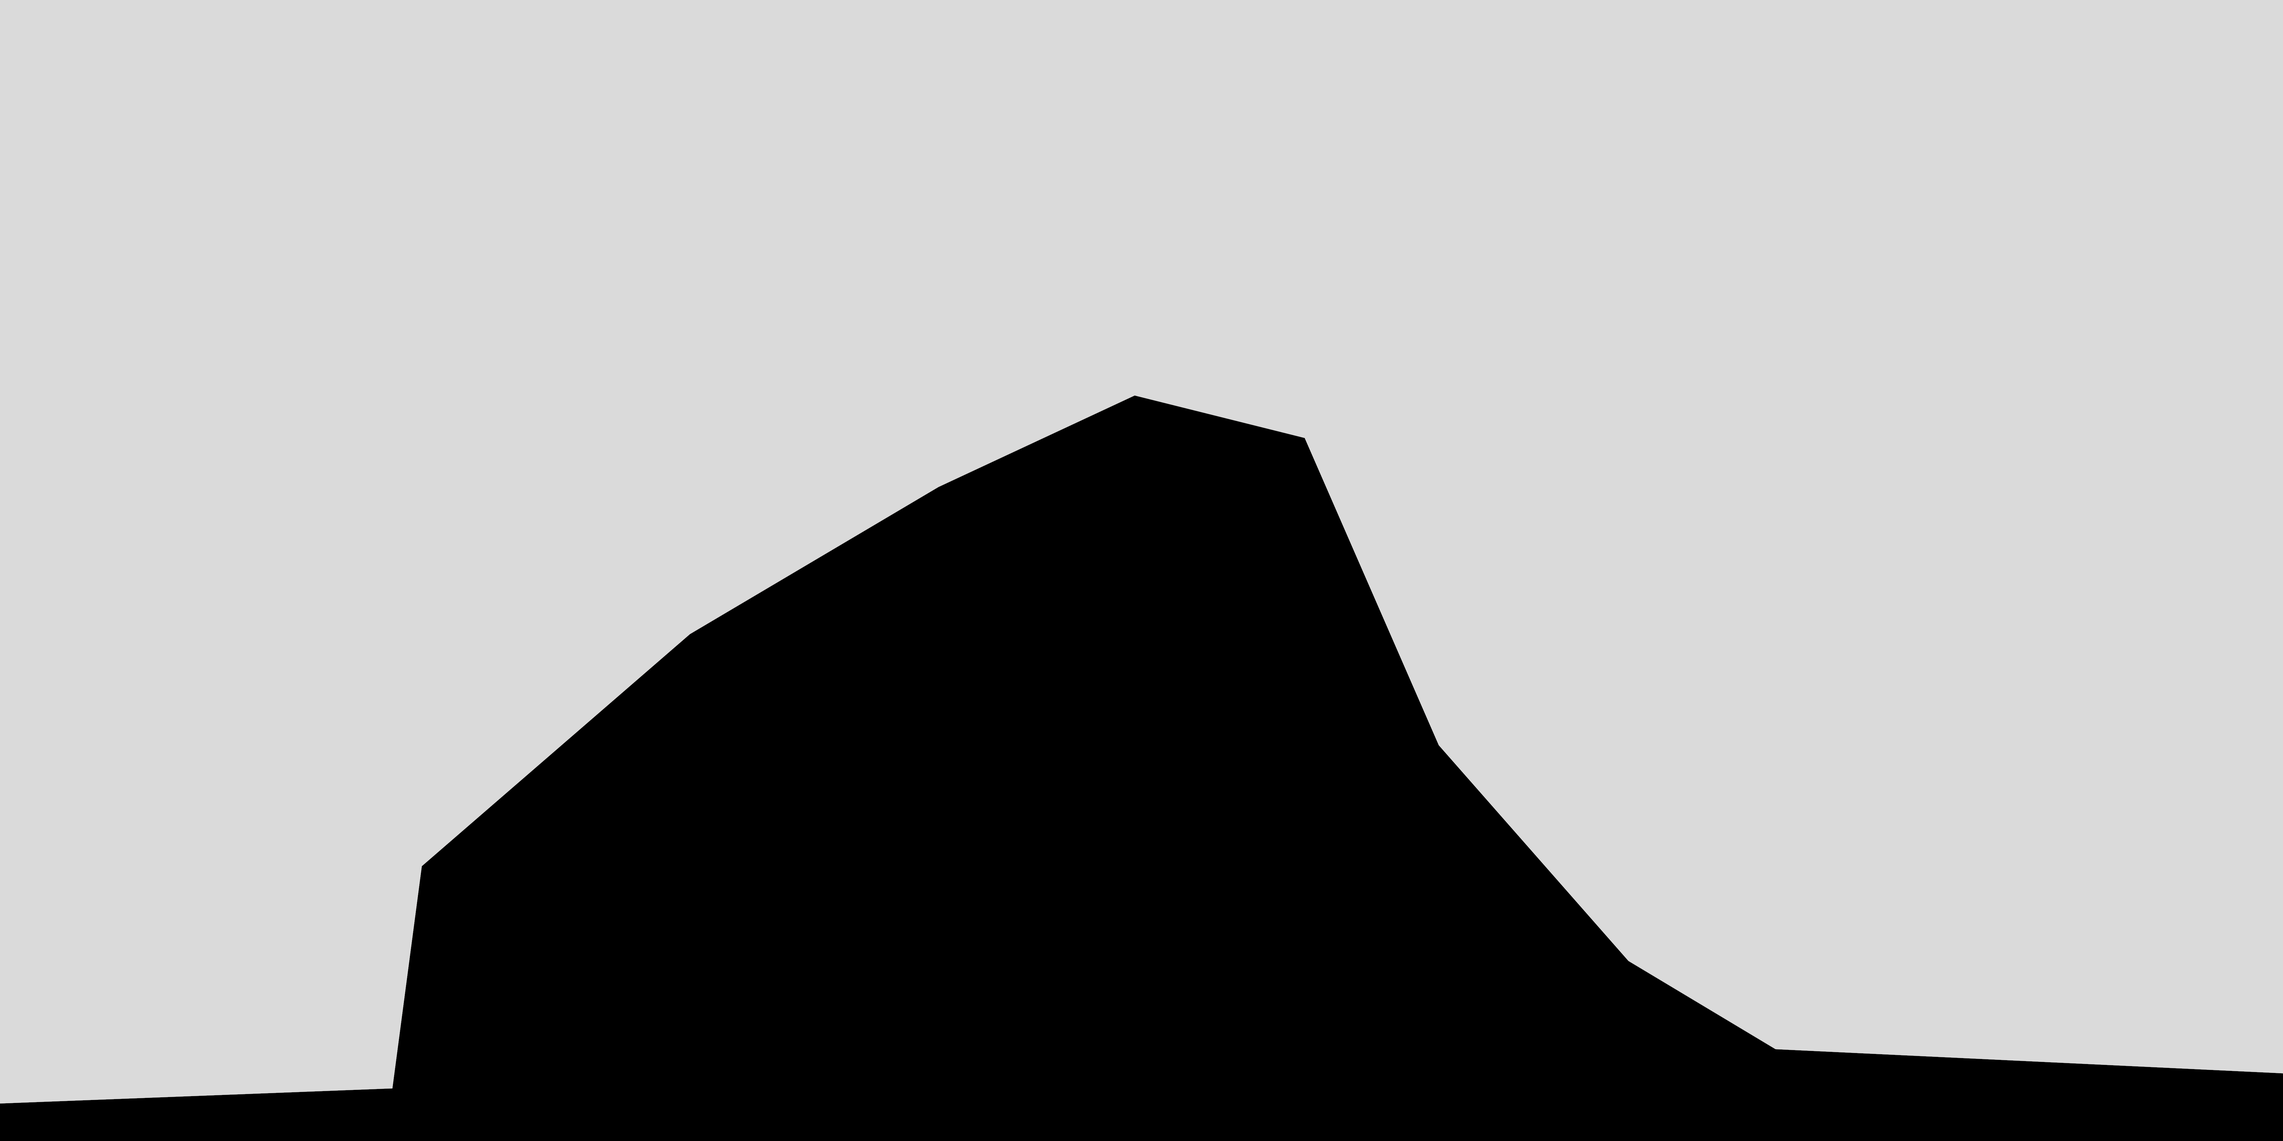
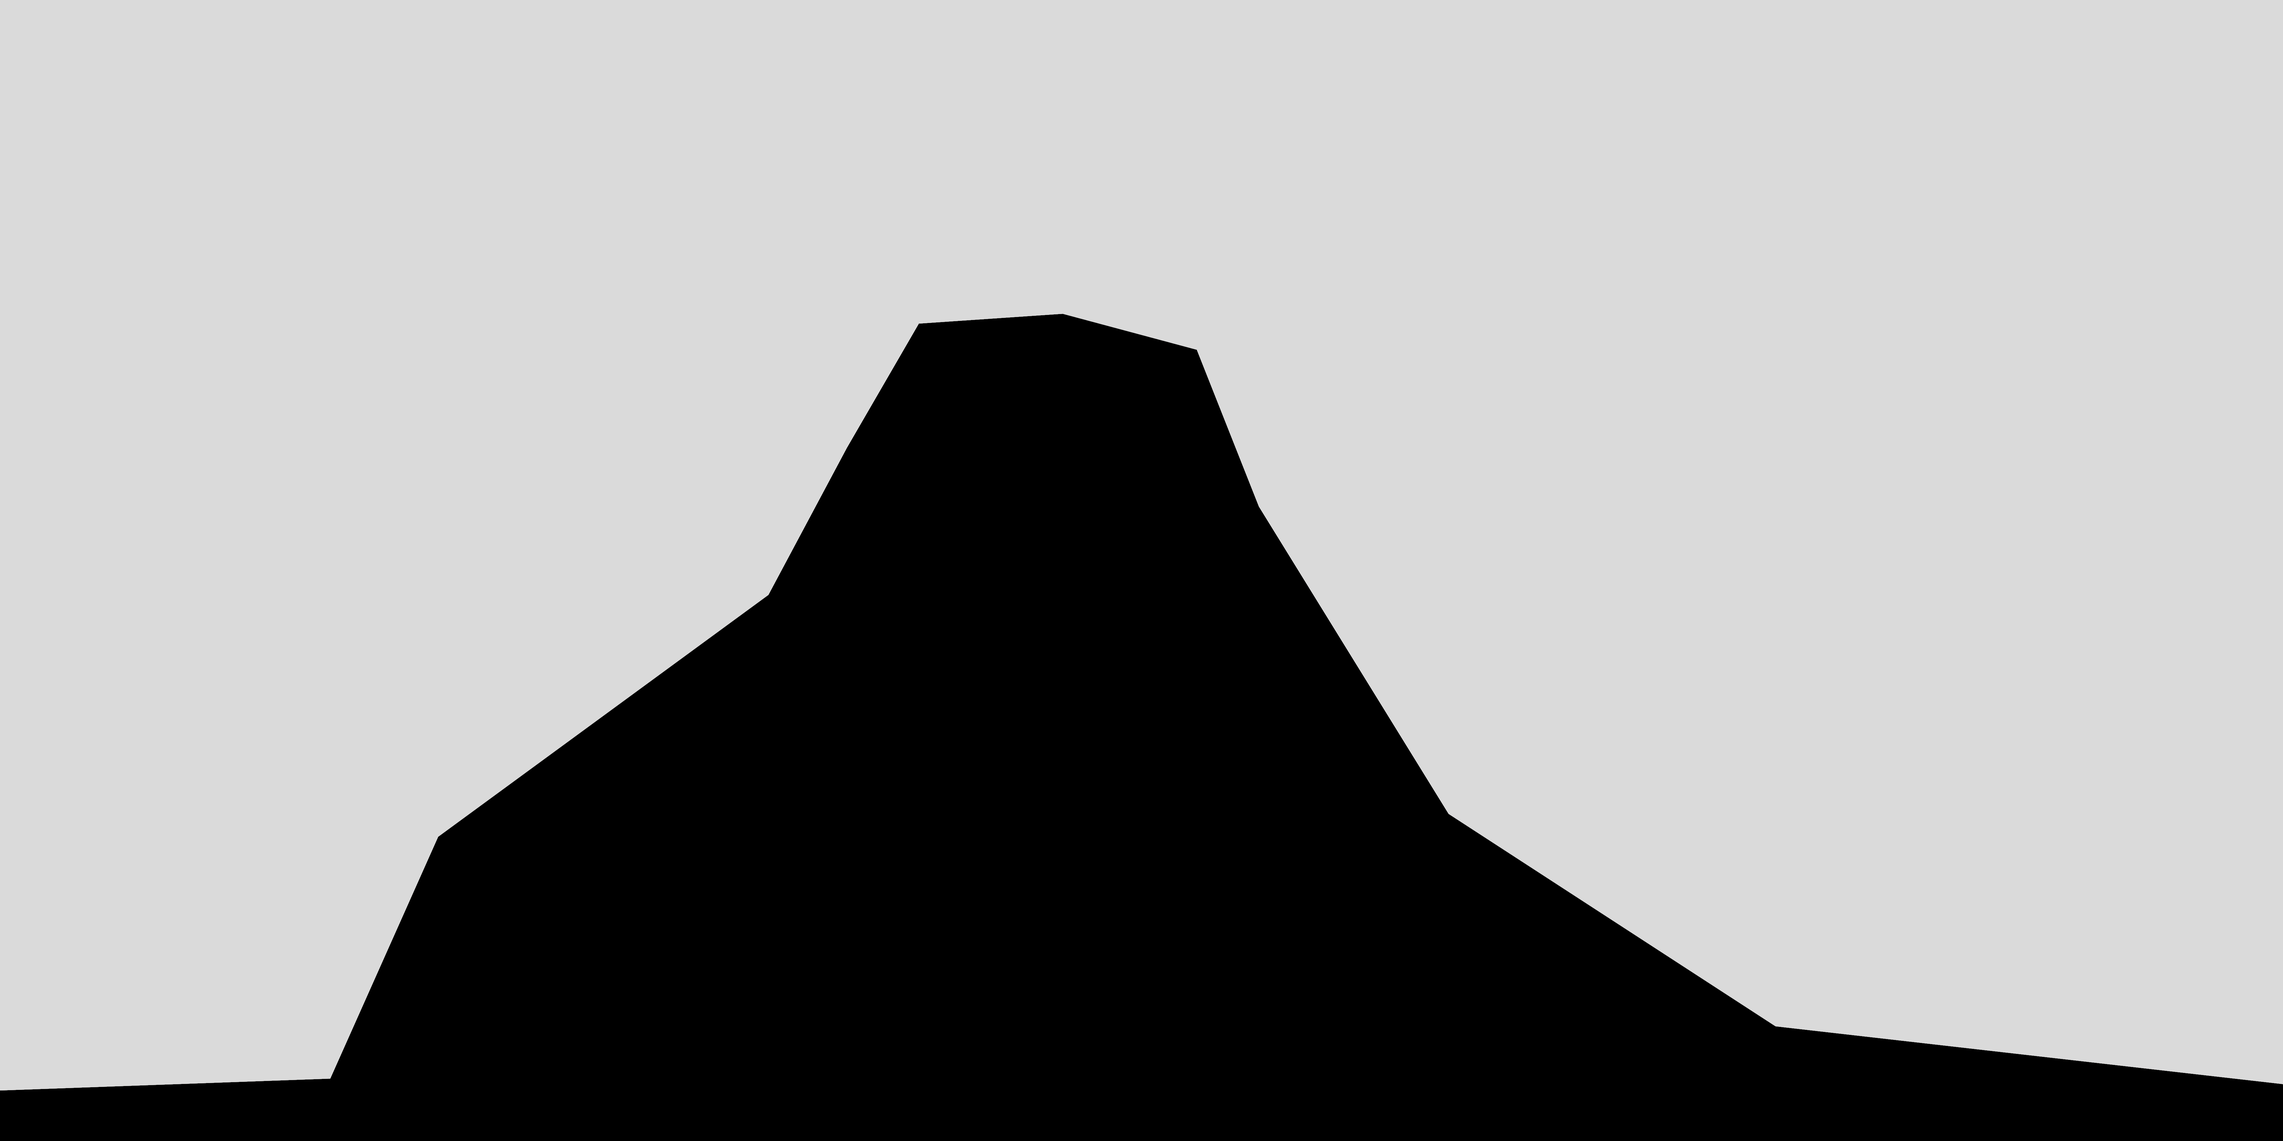
fix: multi-camera calibration slot corruption, continuous mode .cam_index serials, and post-processing detection

diff --git a/src/fusion_gui.py b/src/fusion_gui.py
@@ -668,13 +668,16 @@ class FusionCaptureGUI:
         self.bag_only_var = tk.BooleanVar(value=False)
         ttk.Checkbutton(mode_frame, text="Bag only (post-process later)",
                         variable=self.bag_only_var).grid(row=5, column=0, columnspan=2, sticky=tk.W, pady=(2, 0))
+        self.outdoor_var = tk.BooleanVar(value=False)
+        ttk.Checkbutton(mode_frame, text="Outdoor scene (reduced EV bias)",
+                        variable=self.outdoor_var).grid(row=6, column=0, columnspan=2, sticky=tk.W, pady=(2, 0))
         self.icp_var = tk.BooleanVar(value=False)
         ttk.Checkbutton(mode_frame, text="ICP alignment (post processing)",
-                        variable=self.icp_var).grid(row=6, column=0, columnspan=2, sticky=tk.W, pady=(2, 0))
+                        variable=self.icp_var).grid(row=7, column=0, columnspan=2, sticky=tk.W, pady=(2, 0))
         self.colmap_var = tk.BooleanVar(value=False)
         self.colmap_lidar_voxel_size = 0.0
         ttk.Checkbutton(mode_frame, text="Export COLMAP model",
-                        variable=self.colmap_var).grid(row=7, column=0, columnspan=2, sticky=tk.W, pady=(2, 0))
+                        variable=self.colmap_var).grid(row=8, column=0, columnspan=2, sticky=tk.W, pady=(2, 0))
         self.capture_mode_var.trace_add('write', self._on_capture_mode_changed)
 
         self.start_button = ttk.Button(control_frame, text="Start System",
@@ -1102,6 +1105,7 @@ class FusionCaptureGUI:
             'camera_hw_val':     self.camera_hw_var.get(),
             'num_cameras_val':   self.num_cameras_var.get(),
             'bag_only':          self.bag_only_var.get(),
+            'outdoor':           self.outdoor_var.get(),
             'stationary_wait':   self.stationary_wait_var.get(),
             'icp':               self.icp_var.get(),
             'colmap':            self.colmap_var.get(),
@@ -1198,7 +1202,8 @@ class FusionCaptureGUI:
             cmd = ['stdbuf', '-oL', './atlas_fusion_capture.sh',
                    '--camera', camera_val,
                    '--capture', capture_val,
-                   '--camera-hw', params['camera_hw_val']]
+                   '--camera-hw', params['camera_hw_val'],
+                   '--scene', 'outdoor' if params['outdoor'] else 'indoor']
             if params['num_cameras_val'] != 'auto':
                 cmd += ['--num-cameras', params['num_cameras_val']]
             if params['bag_only']:
@@ -1887,13 +1892,23 @@ sys.exit(0 if ok[0] else 4)
     def _pp_run_reconstruct(self):
         sess = self._pp_session()
         if not sess: self._pp_log_write("\n[!] No session selected.\n"); return
-        if not any(p.is_dir() and not str(p).endswith('_imu')
-                   for p in pathlib.Path(sess).glob('rosbag_*')):
+        sess_path = pathlib.Path(sess)
+        has_rosbag = any(p.is_dir() and not str(p).endswith('_imu')
+                         for p in sess_path.glob('rosbag_*'))
+        if not has_rosbag:
             self._pp_log_write("\n[!] No rosbag found in session.\n")
             self._pp_log_write("    The bag may have been deleted after processing.\n")
             self._pp_log_write("    Other utilities (ICP, merge, COLMAP, viewer) can still run on this session.\n")
             return
-        self._pp_run("Run Post-Processing", [sys.executable, str(self.script_dir / 'post_processing/reconstruct_from_bag.py'), sess])
+        cmd = [sys.executable, str(self.script_dir / 'post_processing/reconstruct_from_bag.py'), sess]
+        # Continuous SDK-stitch sessions: rosbag is at session root and .sdk_shot_* dirs
+        # contain the .insp files. Pass --sdk-stitch so reconstruct_from_bag promotes them.
+        is_continuous_sdk = (any(sess_path.glob('.sdk_shot_*')) or
+                             any(sess_path.glob('fusion_scan_*/*.insp')))
+        if is_continuous_sdk:
+            cmd += ['--sdk-stitch', '--trim-ends', '0']
+            self._pp_log_write("  Detected continuous SDK-stitch session — adding --sdk-stitch\n")
+        self._pp_run("Run Post-Processing", cmd)
 
     def _pp_reprocess(self):
         sess = self._pp_session()
@@ -2373,7 +2388,16 @@ sys.exit(0 if ok[0] else 4)
             self._cal_log_write("\n[!] Invalid numeric input in seed fields.\n")
             return
         hw = self._cal_hw()
-        cam_idx = self._cal_cam_var.get().split('_')[1]
+        actual_slot_idx = self._cal_cam_var.get().split('_')[1]
+        try:
+            import yaml as _yaml
+            mc = _yaml.safe_load((self.script_dir / 'config' / 'multi_camera.yaml').read_text())
+            for sk, sc in mc.get('cameras', {}).items():
+                if sc.get('camera_hw', '') == hw:
+                    actual_slot_idx = sk.split('_')[1]
+                    break
+        except Exception:
+            pass
         self._cal_run("Write Physical Seed", [
             sys.executable,
             str(self.script_dir / 'calibration' / 'physical_seed.py'),
@@ -2381,7 +2405,7 @@ sys.exit(0 if ok[0] else 4)
             '--forward', str(fwd_in),
             '--left', str(left_in),
             '--up', str(up_in),
-        ], env_extra={'ATLAS_CALIBRATION_CAM_INDEX': cam_idx})
+        ], env_extra={'ATLAS_CALIBRATION_CAM_INDEX': actual_slot_idx})
 
     def _cal_verify_seed(self):
         """Write current seed values, generate overlay and open it."""
@@ -2448,7 +2472,19 @@ sys.exit(0 if ok[0] else 4)
             self._cal_log_write("\n[!] No session selected.\n")
             return
         hw = self._cal_hw()
-        cam_idx = self._cal_cam_var.get().split('_')[1]
+        cam_idx = self._cal_cam_var.get().split("_")[1]
+        # Resolve actual slot index from multi_camera.yaml (e.g. oak1=cam_3
+        # but dropdown shows cam_0 for single-hw sessions).
+        actual_slot_idx = cam_idx
+        try:
+            import yaml as _yaml
+            _mc = _yaml.safe_load((self.script_dir / "config" / "multi_camera.yaml").read_text())
+            for _sk, _sc in _mc.get("cameras", {}).items():
+                if _sc.get("camera_hw", "") == hw:
+                    actual_slot_idx = _sk.split("_")[1]
+                    break
+        except Exception:
+            pass
         try:
             fwd_in  = float(self._seed_fwd_var.get())
             left_in = float(self._seed_left_var.get())
@@ -2457,29 +2493,42 @@ sys.exit(0 if ok[0] else 4)
             self._cal_log_write("\n[!] Invalid seed field values — fix before opening viewer.\n")
             return
         import subprocess as _sp, os as _os
-        env_with_idx = {**os.environ, 'ATLAS_CALIBRATION_CAM_INDEX': cam_idx}
-        _sp.run([
+        env_with_idx = {**os.environ, 'ATLAS_CALIBRATION_CAM_INDEX': actual_slot_idx}
+        result = _sp.run([
             sys.executable,
             str(self.script_dir / 'calibration' / 'physical_seed.py'),
             '--camera-hw', hw,
             '--forward', str(fwd_in),
             '--left', str(left_in),
             '--up', str(up_in),
-        ], capture_output=True, env=env_with_idx)
+        ], capture_output=False, env=env_with_idx)
+        if result.returncode != 0:
+            self._cal_log_write(f'\n[!] physical_seed.py failed (exit {result.returncode}) — viewer may use stale seed.\n')
+            return
         subprocess.Popen([
             sys.executable,
             str(self.script_dir / 'calibration' / 'interactive_seed.py'),
-            sess, '--camera-hw', hw, '--cam-index', cam_idx,
+            sess, '--camera-hw', hw, '--cam-index', actual_slot_idx,
         ], env=env_with_idx)
 
     def _cal_apply(self):
-        cam_idx = self._cal_cam_var.get().split('_')[1]  # '0', '1', or '2'
+        hw = self._cal_hw()
+        actual_slot_idx = self._cal_cam_var.get().split('_')[1]
+        try:
+            import yaml as _yaml
+            mc = _yaml.safe_load((self.script_dir / 'config' / 'multi_camera.yaml').read_text())
+            for sk, sc in mc.get('cameras', {}).items():
+                if sc.get('camera_hw', '') == hw:
+                    actual_slot_idx = sk.split('_')[1]
+                    break
+        except Exception:
+            pass
         self._cal_run("Apply Calibration", [
             sys.executable,
             str(self.script_dir / 'calibration' / 'coordinate_transform.py'),
             self._cal_src(),
-            '--camera-hw', self._cal_hw()
-        ], env_extra={'ATLAS_CALIBRATION_CAM_INDEX': cam_idx})
+            '--camera-hw', hw
+        ], env_extra={'ATLAS_CALIBRATION_CAM_INDEX': actual_slot_idx})
 
     def _cal_verify(self):
         sess = self._pp_session()
@@ -2744,6 +2793,7 @@ def main():
     default_camera, default_capture, default_stationary_wait = 'dual_fisheye', 'continuous', False
     default_icp, default_colmap, default_colmap_lidar_voxel = False, False, 0.0
     default_camera_hw = 'onex2'
+    default_outdoor = False
     try:
         for line in script.read_text().splitlines():
             line = line.strip()
@@ -2759,6 +2809,8 @@ def main():
                 default_colmap = line.split('=', 1)[1].split('#')[0].strip('"\' ').lower() == 'true'
             elif line.startswith('CAMERA_HW=') and '#' not in line.split('CAMERA_HW=')[0]:
                 default_camera_hw = line.split('=', 1)[1].split('#')[0].strip('"\' ')
+            elif line.startswith('SCENE_MODE=') and '#' not in line.split('SCENE_MODE=')[0]:
+                default_outdoor = line.split('=', 1)[1].split('#')[0].strip('"\' ') == 'outdoor'
             elif line.startswith('COLMAP_LIDAR_VOXEL_SIZE=') and '#' not in line.split('COLMAP_LIDAR_VOXEL_SIZE=')[0]:
                 try: default_colmap_lidar_voxel = float(line.split('=', 1)[1].split('#')[0].strip('"\' '))
                 except ValueError: pass
@@ -2787,6 +2839,7 @@ def main():
     app.icp_var.set(default_icp)
     app.colmap_var.set(default_colmap)
     app.camera_hw_var.set(default_camera_hw)
+    app.outdoor_var.set(default_outdoor)
     app.colmap_lidar_voxel_size = default_colmap_lidar_voxel
     app._on_capture_mode_changed()
     root.protocol("WM_DELETE_WINDOW", app.on_closing)

diff --git a/src/post_processing/color_normalize.py b/src/post_processing/color_normalize.py
@@ -135,6 +135,10 @@ def compute_profile_from_images(ref_img: np.ndarray, src_img: np.ndarray) -> dic
     """
     ref_mask = ref_img.max(axis=2) > 20
     src_mask = src_img.max(axis=2) > 20
+    # Exclude overexposed pixels from both images — clipped highlights
+    # bias the L_gain ratio toward 1.0 and hide true exposure differences.
+    ref_mask = ref_mask & (ref_img.max(axis=2) < 245)
+    src_mask = src_mask & (src_img.max(axis=2) < 245)
     shared = ref_mask & src_mask
     if not shared.any():
         return {'ccm': np.eye(3, dtype=np.float32),
@@ -307,10 +311,18 @@ def calibrate_from_session(session_dir: str, reference_cam: int = 0):
         if sentinel.exists():
             sentinel.unlink()
 
-    def _hw_for_scan(scan_dir: Path) -> str:
-        """Return camera hw for a scan dir — oak1 if oak1_* files present, else session hw."""
+    def _hw_for_scan(scan_dir: Path, cam_idx: int) -> str:
+        """Return camera hw for a scan dir from multi_camera.yaml slot."""
         if any(scan_dir.glob('oak1_*')):
             return 'oak1'
+        try:
+            import yaml as _y
+            mc = _y.safe_load((_SRC / 'config' / 'multi_camera.yaml').read_text()) or {}
+            slot_hw = mc.get('cameras', {}).get(f'cam_{cam_idx}', {}).get('camera_hw', '')
+            if slot_hw:
+                return slot_hw
+        except Exception:
+            pass
         return camera_hw
 
     # For each secondary camera, find temporally adjacent reference images
@@ -320,7 +332,7 @@ def calibrate_from_session(session_dir: str, reference_cam: int = 0):
             continue
 
         print(f"\nComputing profile for cam_{cam_idx} ({len(scans)} images)...")
-        scan_hw = _hw_for_scan(scans[0][0])
+        scan_hw = _hw_for_scan(scans[0][0], cam_idx)
 
         # Use up to 20 image pairs for robust statistics; reject outliers
         profiles = []
@@ -412,7 +424,15 @@ def normalize_session(session_dir: str):
         # Detect OAK-1 scans by image files
         oak1_img = next(scan_dir.glob('oak1_*_undistorted.png'), None)
         is_oak1 = oak1_img is not None
-        scan_hw = 'oak1' if is_oak1 else camera_hw
+        if is_oak1:
+            scan_hw = 'oak1'
+        else:
+            try:
+                import yaml as _y
+                mc = _y.safe_load((_SRC / 'config' / 'multi_camera.yaml').read_text()) or {}
+                scan_hw = mc.get('cameras', {}).get(f'cam_{cam_idx}', {}).get('camera_hw', '') or camera_hw
+            except Exception:
+                scan_hw = camera_hw
 
         profile = load_color_profile(scan_hw, cam_idx)
         if profile is None:

diff --git a/src/post_processing/reconstruct_from_bag.py b/src/post_processing/reconstruct_from_bag.py
@@ -1308,6 +1308,18 @@ def reconstruct(session_dir, interval=3.0, lidar_window=2.0, camera_mode="single
         # then fall back to .capture_time sidecar in the scan dir.
         # Always preserve the serial from the existing .cam_index when present so
         # exact_match_fusion.py can resolve the correct per-slot calibration.
+        # Load serial map from .sdk_camera_map once for the whole session.
+        _sdk_cam_map = {}
+        _map_path = session_path / '.sdk_camera_map'
+        if _map_path.exists():
+            try:
+                for _line in _map_path.read_text().strip().splitlines():
+                    _parts = _line.split()
+                    if len(_parts) >= 2:
+                        _sdk_cam_map[int(_parts[0])] = _parts[1]
+            except Exception:
+                pass
+
         def _read_existing_serial(sd):
             try:
                 parts = (sd / '.cam_index').read_text().strip().split()
@@ -1315,10 +1327,17 @@ def reconstruct(session_dir, interval=3.0, lidar_window=2.0, camera_mode="single
             except Exception:
                 return ''
 
+        def _serial_for_idx(idx):
+            """Return serial for cam index from .sdk_camera_map or existing .cam_index."""
+            if idx in _sdk_cam_map:
+                return _sdk_cam_map[idx]
+            return _read_existing_serial(scan_dir)
+
         _cam_idx_written = False
         if _centres_cam_idx and idx < len(_centres_cam_idx):
-            _serial = _read_existing_serial(scan_dir)
-            _entry = f"{_centres_cam_idx[idx]} {_serial}" if _serial else str(_centres_cam_idx[idx])
+            _ci = _centres_cam_idx[idx]
+            _serial = _serial_for_idx(_ci)
+            _entry = f"{_ci} {_serial}" if _serial else str(_ci)
             (scan_dir / '.cam_index').write_text(_entry)
             _cam_idx_written = True
         if not _cam_idx_written:
@@ -1326,8 +1345,9 @@ def reconstruct(session_dir, interval=3.0, lidar_window=2.0, camera_mode="single
                 try:
                     _ct_parts = _ct.read_text().strip().split()
                     if len(_ct_parts) >= 3:
-                        _serial = _read_existing_serial(scan_dir)
-                        _entry = f"{_ct_parts[2]} {_serial}" if _serial else _ct_parts[2]
+                        _ci = int(_ct_parts[2])
+                        _serial = _serial_for_idx(_ci)
+                        _entry = f"{_ci} {_serial}" if _serial else str(_ci)
                         (scan_dir / '.cam_index').write_text(_entry)
                         _cam_idx_written = True
                         break

diff --git a/src/capture/oak1_capture.py b/src/capture/oak1_capture.py
@@ -53,13 +53,17 @@ def _build_pipeline(dai, width: int, height: int):
     return pipeline, q, ctrl_q
 
 
-def _apply_isp(dai, ctrl_q, settle_s: float = 0.0):
+def _apply_isp(dai, ctrl_q, settle_s: float = 0.0, scene_mode: str = "indoor"):
     if settle_s > 0:
         time.sleep(settle_s)
     ctrl = dai.CameraControl()
     ctrl.setAutoWhiteBalanceMode(dai.CameraControl.AutoWhiteBalanceMode.AUTO)
+    # Outdoor scenes are much brighter — use stronger EV reduction to avoid overexposure.
+    ev = -4 if scene_mode == "outdoor" else -2
+    ctrl.setAutoExposureCompensation(ev)
     ctrl.setSaturation(2)
-    ctrl.setSharpness(1)
+    ctrl.setSharpness(0)
+    ctrl.setLumaDenoise(1)
     ctrl_q.send(ctrl)
 
 
@@ -292,6 +296,12 @@ def main():
         if idx + 1 < len(sys.argv):
             cam_index = sys.argv[idx + 1]
 
+    scene_mode = "indoor"
+    if "--scene" in sys.argv:
+        idx = sys.argv.index("--scene")
+        if idx + 1 < len(sys.argv):
+            scene_mode = sys.argv[idx + 1]
+
     _src = _SELF.parent.parent
     hw_yaml = _src / "config" / "camera_models" / "oak1.yaml"
     cfg = yaml.safe_load(hw_yaml.read_text()) if hw_yaml.exists() else {}
@@ -335,7 +345,7 @@ def main():
         """Start pipeline and wait for AE. Returns (pipeline, stream_q, ctrl_q)."""
         p, sq, cq = _build_pipeline(dai, width, height)
         p.start()
-        _apply_isp(dai, cq, settle_s=0.5)
+        _apply_isp(dai, cq, settle_s=0.5, scene_mode=scene_mode)
         if wait_ae:
             print("Waiting for AE...", flush=True)
             _wait_ae(sq)

diff --git a/src/capture/sdk/main_multi.cpp b/src/capture/sdk/main_multi.cpp
@@ -381,10 +381,15 @@ int _main(int argc, char* argv[]) {
     std::set<std::string> opened_serials;
 
     if (!serial_filter.empty()) {
-        // When opening a single camera, flush its USB endpoint first to clear
-        // stale protocol bytes left by a previous unclean session.
-        if (serial_filter.size() == 1)
-            flush_usb_endpoints(serial_filter[0]);
+        // Flush each camera's USB endpoint before opening it to clear stale
+        // protocol bytes from a previous session. In multi-camera mode we
+        // flush sequentially (one at a time) before opening any camera so
+        // the libusb claim doesn't interfere with the SDK's open sequence.
+        for (const auto& sn : serial_filter)
+            flush_usb_endpoints(sn);
+
+        // When opening a single camera, flush was already done above.
+        // (kept for clarity — flush_usb_endpoints is idempotent)
 
         // Open cameras in the exact order specified by serial_filter
         for (size_t target_idx = 0; target_idx < serial_filter.size(); ++target_idx) {
